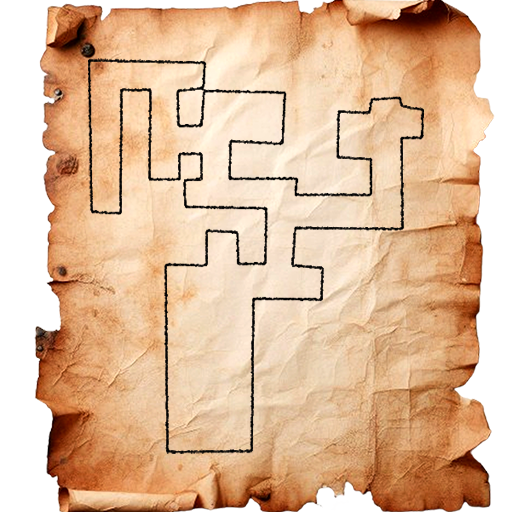
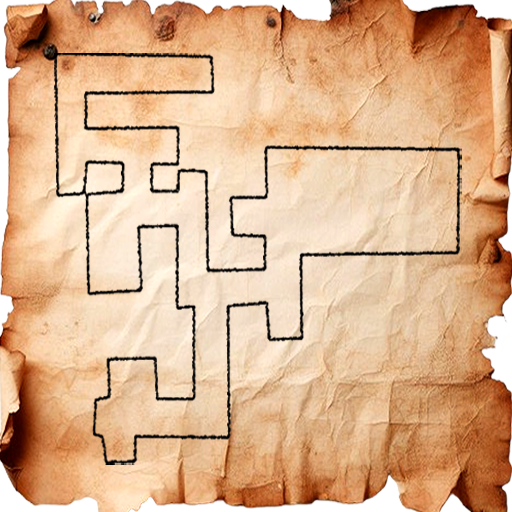
fixed map bugs

diff --git a/src/gameplay/hud.js b/src/gameplay/hud.js
@@ -401,6 +401,9 @@ export class HUD {
         filter: saturate(0.9);
         pointer-events:none;
       }
+      .hud-minimap.mirrored-y img{
+        transform: scaleY(-1);
+      }
       #hud-minimap-arrow{
         position:absolute;
         top:50%;
@@ -698,6 +701,11 @@ export class HUD {
     const scaleZ = detail.scale?.z ?? 1;
     const offsetX = detail.offset?.x ?? 0;
     const offsetZ = detail.offset?.z ?? 0;
+    const imageScaleX = detail.imageScale?.x ?? 1;
+    const imageScaleY = detail.imageScale?.y ?? 1;
+    const imageOffsetX = detail.imageOffset?.x ?? 0;
+    const imageOffsetY = detail.imageOffset?.y ?? 0;
+    const mirrorY = Boolean(detail.mirrorY);
 
     const minRawX = min.x ?? 0;
     const minRawZ = min.z ?? 0;
@@ -719,11 +727,17 @@ export class HUD {
       scaleX,
       scaleZ,
       offsetX,
-      offsetZ
+      offsetZ,
+      imageScaleX,
+      imageScaleY,
+      imageOffsetX,
+      imageOffsetY,
+      mirrorY
     };
 
     this.minimapContainer.classList.remove('hidden');
     this.minimapContainer.setAttribute('aria-hidden', 'false');
+    this.minimapContainer.classList.toggle('mirrored-y', mirrorY);
 
     if (typeof window !== 'undefined') {
       window.__pendingMinimapDetail = {
@@ -732,7 +746,10 @@ export class HUD {
         max: { x: maxRawX, z: maxRawZ },
         flipY: detail.flipY !== false,
         scale: { x: scaleX, z: scaleZ },
-        offset: { x: offsetX, z: offsetZ }
+        offset: { x: offsetX, z: offsetZ },
+        imageScale: { x: imageScaleX, y: imageScaleY },
+        imageOffset: { x: imageOffsetX, y: imageOffsetY },
+        mirrorY
       };
       window.__activeMinimapConfig = this.minimapConfig;
     }
@@ -743,6 +760,7 @@ export class HUD {
     if (this.minimapContainer) {
       this.minimapContainer.classList.add('hidden');
       this.minimapContainer.setAttribute('aria-hidden', 'true');
+      this.minimapContainer.classList.remove('mirrored-y');
     }
     if (typeof window !== 'undefined') {
       window.__pendingMinimapDetail = null;
@@ -753,7 +771,22 @@ export class HUD {
   updateMinimap(position, direction) {
     if (!this.minimapConfig || !this.minimapArrow || !this.minimapContainer || !position) return;
 
-    const { minX, maxX, minZ, maxZ, flipY, scaleX, scaleZ, offsetX, offsetZ } = this.minimapConfig;
+    const {
+      minX,
+      maxX,
+      minZ,
+      maxZ,
+      flipY,
+      scaleX,
+      scaleZ,
+      offsetX,
+      offsetZ,
+      imageScaleX,
+      imageScaleY,
+      imageOffsetX,
+      imageOffsetY,
+      mirrorY
+    } = this.minimapConfig;
     const width = this.minimapContainer.clientWidth || 1;
     const height = this.minimapContainer.clientHeight || 1;
 
@@ -766,15 +799,16 @@ export class HUD {
     const normX = Math.min(Math.max((mappedX - minX) / rangeX, 0), 1);
     const normZ = Math.min(Math.max((mappedZ - minZ) / rangeZ, 0), 1);
 
-    const px = normX * width;
+    const px = (imageOffsetX + normX * imageScaleX) * width;
     const zNorm = flipY ? 1 - normZ : normZ;
-    const py = zNorm * height;
+    const displayZ = mirrorY ? 1 - zNorm : zNorm;
+    const py = (imageOffsetY + displayZ * imageScaleY) * height;
 
     this.minimapArrow.style.left = `${px}px`;
     this.minimapArrow.style.top = `${py}px`;
 
     if (direction) {
-      const angleRad = Math.atan2(direction.x, -direction.z);
+      const angleRad = Math.atan2(direction.x, mirrorY ? -direction.z : direction.z);
       const angleDeg = angleRad * (180 / Math.PI);
       this.minimapArrow.style.transform = `translate(-50%, -50%) rotate(${angleDeg.toFixed(1)}deg)`;
     }

diff --git a/src/main.js b/src/main.js
@@ -244,6 +244,21 @@ function toggleBackgroundMusic() {
   }
 }
 
+function updateCoordinateHud() {
+  if (!coordHud || !coordHudVisible || !camera) return;
+  const pos = camera.position;
+  coordHud.textContent = `X: ${pos.x.toFixed(2)} | Y: ${pos.y.toFixed(2)} | Z: ${pos.z.toFixed(2)}`;
+}
+
+function toggleCoordinateHud() {
+  if (!coordHud) return;
+  coordHudVisible = !coordHudVisible;
+  coordHud.style.display = coordHudVisible ? 'block' : 'none';
+  if (coordHudVisible) {
+    updateCoordinateHud();
+  }
+}
+
 // --- Keycode Sound Effects ---
 let accessGrantedSound = null;
 let accessDeniedSound = null;
@@ -336,6 +351,8 @@ async function loadLevelInBackground() {
 }
 // --- Game init (HUD + interaction loop) --
 let interactionIndicator;
+let coordHud;
+let coordHudVisible = false;
 
 function initializeGame(lights) {
   // place player at spawn (you can tune this)
@@ -345,7 +362,8 @@ function initializeGame(lights) {
   console.log('[Game] Game initialized, DoorManager will be set up when Level 2 loads');
 
   document.addEventListener("keydown", (e) => { 
-    if (e.code === "KeyM") toggleBackgroundMusic(); 
+    if (e.code === "KeyM") toggleBackgroundMusic();
+    if (e.code === "KeyV") toggleCoordinateHud();
   });
 
   // interaction indicator UI
@@ -359,6 +377,18 @@ function initializeGame(lights) {
     display:none;
   `;
   document.body.appendChild(interactionIndicator);
+
+  if (!coordHud) {
+    coordHud = document.createElement('div');
+    coordHud.id = 'coord-hud';
+    coordHud.style.cssText = `
+      position: fixed; right: 16px; top: 16px; padding: 8px 12px;
+      background: rgba(20, 20, 30, 0.85); color: #0ff; font-family: monospace;
+      font-size: 13px; border-radius: 6px; box-shadow: 0 2px 8px rgba(0,0,0,0.4);
+      display: none; pointer-events: none; z-index: 1300; letter-spacing: 0.5px;
+    `;
+    document.body.appendChild(coordHud);
+  }
 
   // Create keycode interface
   const keycodeInterface = document.createElement("div");
@@ -828,8 +858,8 @@ function initializeGame(lights) {
 
 // --- Helpers ---
 function resetPlayer() {
-  camera.position.set(0, 1.7, -5);
-  camera.lookAt(0, 1.7, 0);
+  camera.position.set(5.76, 1.7, -1.07);
+  camera.lookAt(-5.25, 1.7, -1.07);
   console.log('[reset] Player position reset');
 }
 
@@ -1235,6 +1265,10 @@ function animate() {
     if (frameCount % checkInterval === 0) {
       checkForInteractables();                  // proximity UI
     }
+  }
+
+  if (coordHudVisible && coordHud) {
+    updateCoordinateHud();
   }
 
   renderer.render(scene, camera);

diff --git a/src/env/level3.js b/src/env/level3.js
@@ -67,11 +67,16 @@ export default async function loadLevel3(scene) {
           Number.isFinite(bounds.min.x) && Number.isFinite(bounds.max.x) &&
           Number.isFinite(bounds.min.z) && Number.isFinite(bounds.max.z)
         ) {
+          const mapContentScale = 400 / 512;
+          const mapContentOffset = (1 - mapContentScale) / 2;
           const minimapDetail = {
             level: 'level3',
             min: { x: bounds.min.x, z: bounds.min.z },
             max: { x: bounds.max.x, z: bounds.max.z },
-            flipY: true
+            flipY: true,
+            mirrorY: true,
+            imageScale: { x: mapContentScale, y: mapContentScale },
+            imageOffset: { x: mapContentOffset, y: mapContentOffset }
           };
           window.__pendingMinimapDetail = minimapDetail;
           window.dispatchEvent(new CustomEvent('minimap:configure', {
